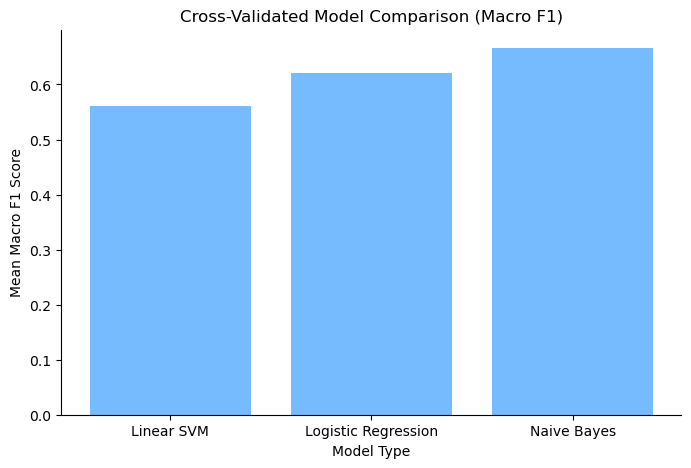
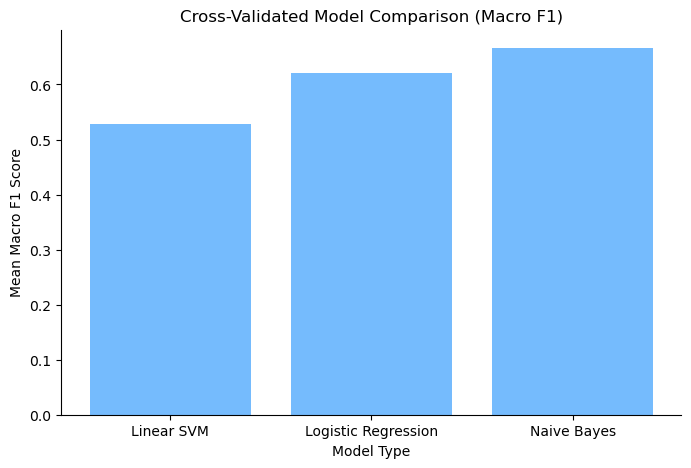
edited the graph to have averages of f1 scores

Changed region(s): [[0.1216, 0.2094, 0.3647, 0.2692]]

diff --git a/pipeline/pipeline.md b/pipeline/pipeline.md
@@ -132,7 +132,7 @@ SELECT * FROM read_parquet('../data/parquet_version/Essay_metadata.parquet')
 
 
 
-    <_duckdb.DuckDBPyConnection at 0x136b09a30>
+    <_duckdb.DuckDBPyConnection at 0x1733b73b0>
 
 
 
@@ -347,6 +347,14 @@ print(confusion_matrix_model)
      [  1   0]]
 
 
+    /opt/anaconda3/lib/python3.12/site-packages/sklearn/metrics/_classification.py:1531: UndefinedMetricWarning: Precision is ill-defined and being set to 0.0 in labels with no predicted samples. Use `zero_division` parameter to control this behavior.
+      _warn_prf(average, modifier, f"{metric.capitalize()} is", len(result))
+    /opt/anaconda3/lib/python3.12/site-packages/sklearn/metrics/_classification.py:1531: UndefinedMetricWarning: Precision is ill-defined and being set to 0.0 in labels with no predicted samples. Use `zero_division` parameter to control this behavior.
+      _warn_prf(average, modifier, f"{metric.capitalize()} is", len(result))
+    /opt/anaconda3/lib/python3.12/site-packages/sklearn/metrics/_classification.py:1531: UndefinedMetricWarning: Precision is ill-defined and being set to 0.0 in labels with no predicted samples. Use `zero_division` parameter to control this behavior.
+      _warn_prf(average, modifier, f"{metric.capitalize()} is", len(result))
+
+
 Accuracy Reflection:
 
 Although the model achieved very high overall accuracy, it failed to correctly classify the single AI-generated essay in the train-test-split's test set. This shows that raw accuracy is misleading for this project because the dataset is extremely imbalanced. With only three AI-generated samples in the full dataset, the classifier has very limited minority-class information to learn from, making recall for AI-generated text especially weak. Future considerations in manually expanding the three by generated texts could be deemed useful if AI detection is considered most important in future prediction use cases.
@@ -410,7 +418,7 @@ print(cv_results)
 ```
 
                      Model  Mean F1 Macro   Std Dev
-    0           Linear SVM       0.561226  0.216428
+    0           Linear SVM       0.528808  0.180946
     1  Logistic Regression       0.620596  0.179358
     2          Naive Bayes       0.666213  0.236023
 
@@ -530,7 +538,17 @@ Final visualization of F1-Scores:
 ```python
 plt.figure(figsize=(8,5))
 
-plt.bar(cv_results["Model"], cv_results["Mean F1 Macro"], color="xkcd:sky blue")
+bars = plt.bar(cv_results["Model"], cv_results["Mean F1 Macro"], color="xkcd:sky blue")
+
+for bar in bars:
+    height = bar.get_height()
+    plt.text(
+        bar.get_x() + bar.get_width()/2,
+        height + 0.01,
+        f"{height:.3f}",
+        ha="center",
+        va="bottom"
+    )
 
 plt.gca().spines['top'].set_visible(False)
 plt.gca().spines['right'].set_visible(False)
